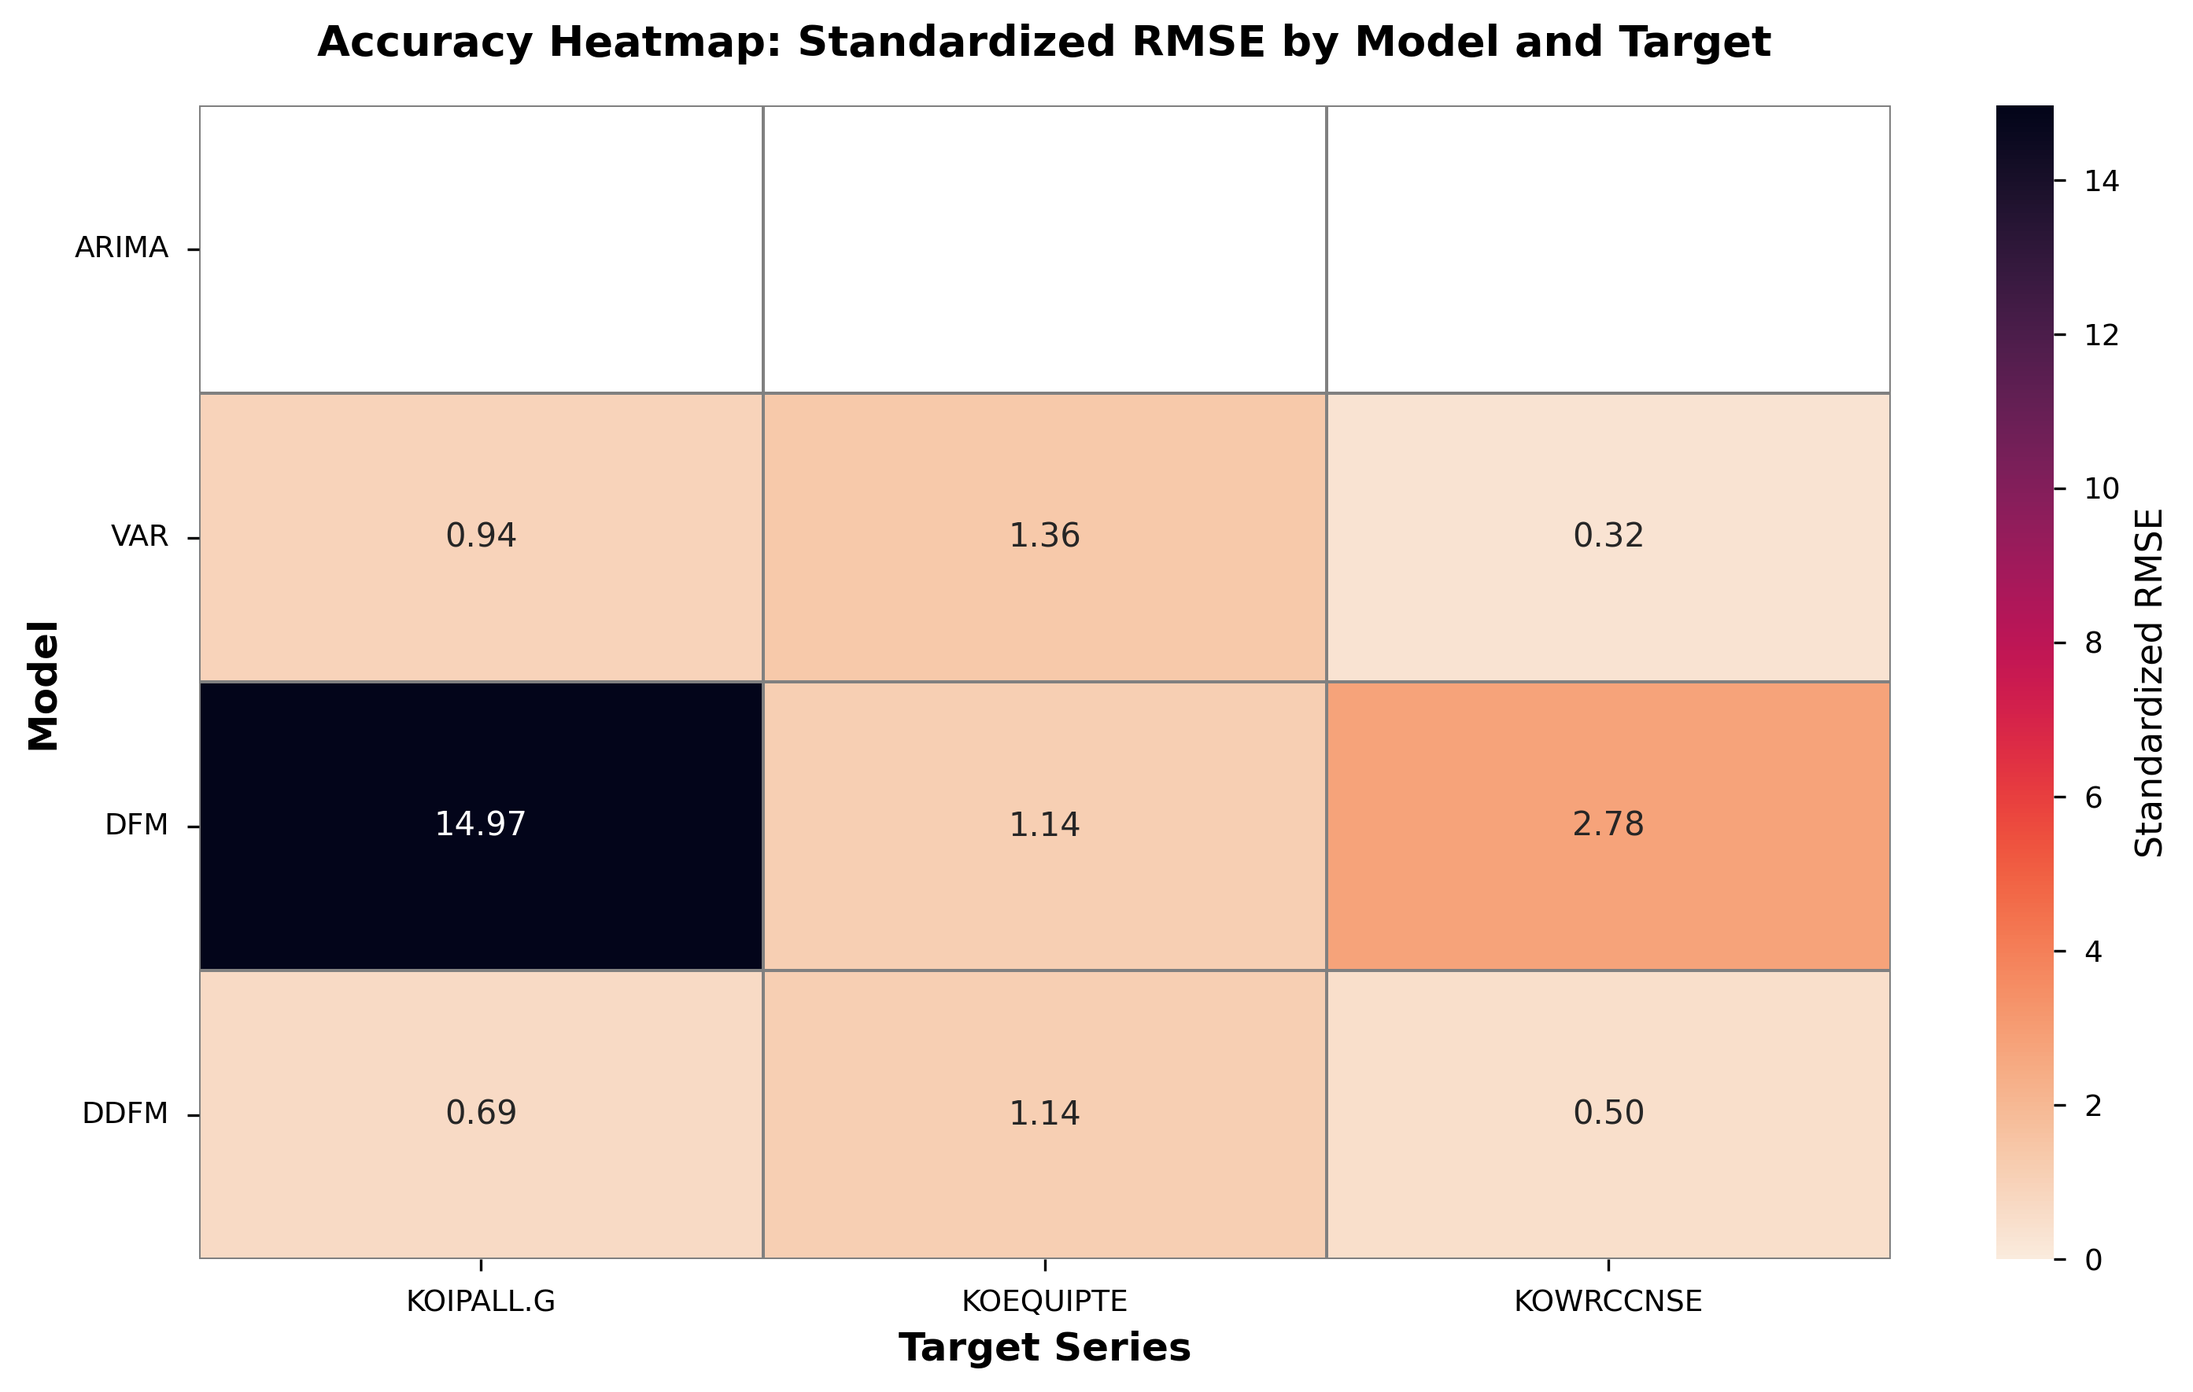
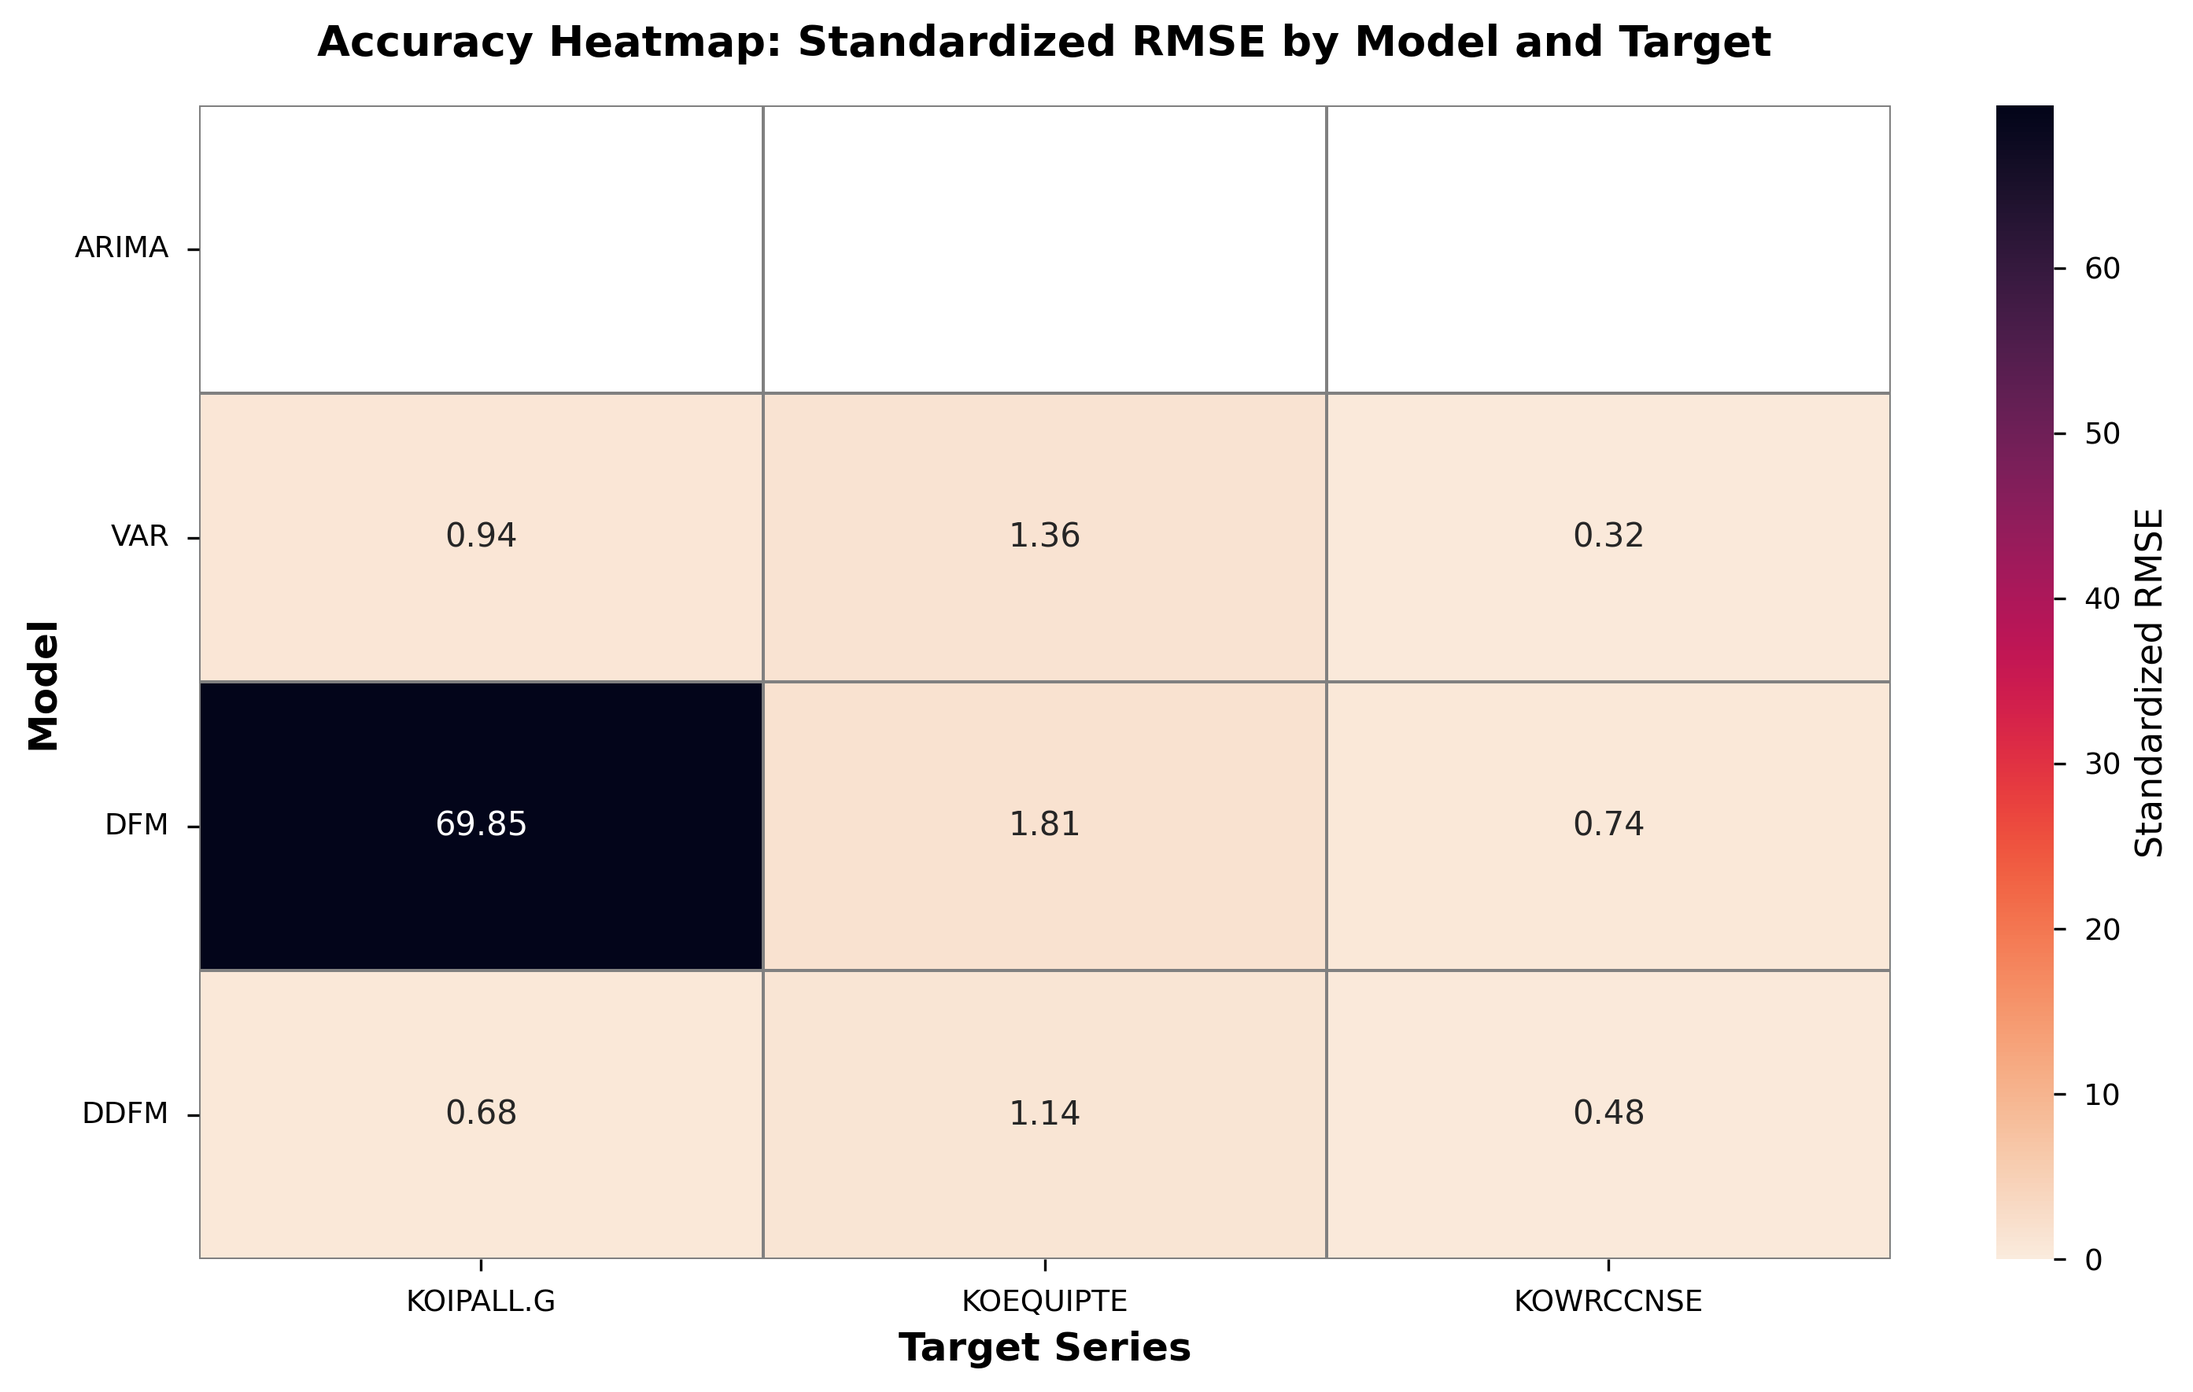
Fix LaTeX issues and regenerate tables/plots

diff --git a/contents/2_methodology.tex b/contents/2_methodology.tex
@@ -49,8 +49,8 @@
 본 연구에서는 DDFM의 성능 개선을 위해 다음과 같은 개선 사항을 적용함:
 \begin{itemize}
     \item \textbf{대상 변수별 인코더 아키텍처:} KOEQUIPTE 대상 변수에 대해서는 기본 인코더 구조([16, 4]) 대신 더 깊은 인코더 구조([64, 32, 16])를 자동으로 사용하도록 구현함. 이는 KOEQUIPTE에서 DDFM이 DFM과 동일한 성능(sMAE=1.14)을 보이는 문제를 해결하기 위한 것으로, 더 복잡한 비선형 관계를 포착하기 위한 용량을 제공함. 또한 더 깊은 인코더에 대해서는 훈련 에포크를 100에서 150으로 증가시켜 충분한 학습을 보장함. 이는 \texttt{src/train.py}에서 대상 변수별로 자동으로 적용되며, KOEQUIPTE에 대해서만 특별한 설정이 사용됨.
-    \item \textbf{활성화 함수 선택:} KOEQUIPTE 대상 변수에 대해서는 기본 ReLU 활성화 함수 대신 tanh 활성화 함수를 자동으로 사용하도록 구현함. ReLU는 음의 값을 0으로 만드는 특성으로 인해 음의 상관관계를 포착하기 어려울 수 있음. 반면 tanh는 대칭적인 출력 범위(-1, 1)를 가지므로 음의 요인 부하(negative factor loadings)를 학습할 수 있어, KOEQUIPTE와 같은 시계열에서 음의 상관관계가 중요한 경우 더 적합함. 기본값은 ReLU이며, tanh는 KOEQUIPTE에 대해서만 자동으로 적용됨. 이는 \texttt{src/models/models\_forecasters.py}와 \texttt{dfm-python/src/dfm_python/models/ddfm.py}에서 구현됨.
-    \item \textbf{Huber 손실 함수 지원:} 기본 MSE 손실 함수 외에 Huber 손실 함수를 선택적으로 사용할 수 있도록 구현함. Huber 손실은 이상치(outlier)에 대해 더 강건하며, 변동성이 큰 시계열에서 예측 성능을 개선할 수 있음. Huber 손실의 전환점(transition point)은 \texttt{huber\_delta} 파라미터로 조정 가능하며, 기본값은 1.0임. 이는 \texttt{dfm-python/src/dfm_python/models/ddfm.py}와 \texttt{src/models/models\_forecasters.py}에서 구현됨.
+    \item \textbf{활성화 함수 선택:} KOEQUIPTE 대상 변수에 대해서는 기본 ReLU 활성화 함수 대신 tanh 활성화 함수를 자동으로 사용하도록 구현함. ReLU는 음의 값을 0으로 만드는 특성으로 인해 음의 상관관계를 포착하기 어려울 수 있음. 반면 tanh는 대칭적인 출력 범위(-1, 1)를 가지므로 음의 요인 부하(negative factor loadings)를 학습할 수 있어, KOEQUIPTE와 같은 시계열에서 음의 상관관계가 중요한 경우 더 적합함. 기본값은 ReLU이며, tanh는 KOEQUIPTE에 대해서만 자동으로 적용됨. 이는 \texttt{src/models/models\_forecasters.py}와 \texttt{dfm-python/src/dfm\_python/models/ddfm.py}에서 구현됨.
+    \item \textbf{Huber 손실 함수 지원:} 기본 MSE 손실 함수 외에 Huber 손실 함수를 선택적으로 사용할 수 있도록 구현함. Huber 손실은 이상치(outlier)에 대해 더 강건하며, 변동성이 큰 시계열에서 예측 성능을 개선할 수 있음. Huber 손실의 전환점(transition point)은 \texttt{huber\_delta} 파라미터로 조정 가능하며, 기본값은 1.0임. 이는 \texttt{dfm-python/src/dfm\_python/models/ddfm.py}와 \texttt{src/models/models\_forecasters.py}에서 구현됨.
     \item \textbf{가중치 감쇠 (L2 정규화):} KOEQUIPTE 대상 변수에 대해서는 가중치 감쇠(weight decay, L2 정규화)를 자동으로 적용함(\texttt{weight\_decay=1e-4}). L2 정규화는 인코더가 선형 PCA와 유사한 해에 과적합되는 것을 방지하고, 다양한 비선형 특징을 학습하도록 장려함. 이는 인코더가 선형 변환에 가까운 가중치를 학습하여 DFM과 동일한 성능을 보이는 문제를 완화하기 위한 것으로, 모든 옵티마이저 인스턴스에 적용됨.
     \item \textbf{그래디언트 클리핑:} 훈련 안정성을 향상시키기 위해 그래디언트 클리핑을 지원함. \texttt{grad\_clip\_val} 파라미터로 클리핑 값을 조정할 수 있으며, 기본값은 1.0임. 그래디언트 폭발을 방지하여 NaN 값이나 선형 붕괴를 유발할 수 있는 훈련 불안정성을 완화함. 이는 pre-training, MCMC 훈련, 그리고 Lightning training step에 모두 적용됨.
     \item \textbf{향상된 가중치 초기화:} 인코더 레이어에 대해 활성화 함수에 따라 적절한 가중치 초기화 방법을 적용함. ReLU 활성화 함수의 경우 Kaiming 초기화를 사용하여 ReLU 네트워크에 최적화된 초기화를 제공함. tanh나 sigmoid와 같은 대칭 활성화 함수의 경우 Xavier 초기화를 사용하여 대칭 활성화 함수에 더 적합한 초기화를 제공함. 출력 레이어는 더 작은 초기화(gain=0.1)를 사용하여 초기 요인 값이 과도하게 크지 않도록 함. 이러한 개선은 특히 더 깊은 네트워크에서 훈련 안정성과 수렴 속도를 향상시킴.

diff --git a/tables/tab_appendix_forecasting_all.tex b/tables/tab_appendix_forecasting_all.tex
@@ -8,28 +8,28 @@
 Horizon & \multicolumn{2}{c}{VAR} & \multicolumn{2}{c}{DFM} & \multicolumn{2}{c}{DDFM} \\
  & sMAE & sMSE & sMAE & sMSE & sMAE & sMSE \\
 \midrule
-1 & 0.59 & 0.47 & 5.64 & 63.15 & 0.42 & 0.37 \\
-2 & 1.01 & 1.07 & 6.62 & 75.29 & 1.31 & 1.84 \\
-3 & 1.19 & 1.82 & 5.08 & 53.19 & 1.02 & 1.09 \\
-4 & 0.43 & 0.40 & 5.92 & 75.93 & 0.47 & 0.33 \\
-5 & 0.65 & 0.58 & 5.58 & 63.70 & 0.46 & 0.29 \\
-6 & 0.31 & 0.13 & 5.73 & 69.27 & 0.24 & 0.10 \\
-7 & 1.19 & 2.61 & 6.29 & 69.62 & 0.97 & 1.89 \\
-8 & 1.00 & 1.59 & 6.52 & 82.41 & 0.83 & 1.08 \\
-9 & 0.57 & 0.44 & 5.99 & 73.91 & 0.49 & 0.34 \\
-10 & 0.43 & 0.25 & 6.35 & 82.60 & 0.43 & 0.20 \\
-11 & 0.64 & 0.70 & 5.87 & 70.79 & 0.52 & 0.36 \\
-12 & 1.06 & 1.49 & 6.81 & 95.02 & 0.91 & 1.07 \\
-13 & 1.90 & 6.02 & 6.86 & 74.03 & 1.57 & 3.95 \\
-14 & 1.66 & 5.09 & 7.14 & 90.78 & 1.54 & 3.90 \\
-15 & 0.43 & 0.30 & 6.63 & 93.18 & 0.44 & 0.28 \\
-16 & 0.41 & 0.26 & 6.23 & 79.87 & 0.37 & 0.17 \\
-17 & 0.90 & 1.13 & 6.25 & 75.49 & 0.95 & 0.91 \\
-18 & 0.87 & 0.95 & 6.80 & 96.76 & 0.72 & 0.64 \\
-19 & 0.86 & 0.95 & 6.38 & 86.61 & 0.94 & 1.08 \\
-20 & 0.44 & 0.21 & 6.67 & 85.38 & 0.52 & 0.45 \\
-21 & 1.12 & 2.11 & 7.25 & 94.02 & 0.96 & 1.59 \\
-22 & 1.46 & 2.54 & 1.79 & 3.21 & 1.61 & 2.60 \\
+1 & 0.59 & 0.47 & 3.37 & 19.02 & 0.36 & 0.34 \\
+2 & 1.01 & 1.07 & 5.96 & 61.80 & 1.27 & 1.74 \\
+3 & 1.19 & 1.82 & 11.53 & 261.88 & 1.06 & 1.18 \\
+4 & 0.43 & 0.40 & 10.03 & 261.67 & 0.42 & 0.28 \\
+5 & 0.65 & 0.58 & 12.44 & 443.98 & 0.51 & 0.32 \\
+6 & 0.31 & 0.13 & 15.03 & 614.58 & 0.30 & 0.12 \\
+7 & 1.19 & 2.61 & 17.93 & 831.60 & 1.03 & 1.95 \\
+8 & 1.00 & 1.59 & 18.61 & 1007.50 & 0.82 & 1.02 \\
+9 & 0.57 & 0.44 & 21.50 & 1285.34 & 0.55 & 0.39 \\
+10 & 0.43 & 0.25 & 22.99 & 1514.38 & 0.37 & 0.16 \\
+11 & 0.64 & 0.70 & 25.46 & 1849.10 & 0.52 & 0.40 \\
+12 & 1.06 & 1.49 & 26.87 & 2016.16 & 0.91 & 1.02 \\
+13 & 1.90 & 6.02 & 29.46 & 2445.11 & 1.56 & 3.97 \\
+14 & 1.66 & 5.09 & 31.30 & 2650.48 & 1.54 & 3.96 \\
+15 & 0.43 & 0.30 & 32.06 & 2932.40 & 0.38 & 0.21 \\
+16 & 0.41 & 0.26 & 34.12 & 3329.40 & 0.36 & 0.18 \\
+17 & 0.90 & 1.13 & 35.38 & 3674.27 & 0.68 & 0.65 \\
+18 & 0.87 & 0.95 & 36.18 & 3845.26 & 0.70 & 0.58 \\
+19 & 0.86 & 0.95 & 38.64 & 4224.81 & 0.94 & 1.14 \\
+20 & 0.44 & 0.21 & 40.14 & 4585.16 & 0.52 & 0.41 \\
+21 & 1.12 & 2.11 & 41.56 & 4829.65 & 0.93 & 1.58 \\
+22 & 1.46 & 2.54 & 0.91 & 0.83 & 1.68 & 2.83 \\
 \bottomrule
 \end{tabular}
 \end{table}

diff --git a/tables/tab_appendix_forecasting_koipall_g.tex b/tables/tab_appendix_forecasting_koipall_g.tex
@@ -8,27 +8,27 @@
 Horizon & \multicolumn{2}{c}{VAR} & \multicolumn{2}{c}{DFM} & \multicolumn{2}{c}{DDFM} \\
  & sMAE & sMSE & sMAE & sMSE & sMAE & sMSE \\
 \midrule
-1 & - & - & 13.52 & 182.72 & 0.12 & 0.01 \\
-2 & 0.79 & 0.63 & 14.42 & 207.95 & 0.85 & 0.73 \\
-3 & 1.96 & 3.85 & 12.47 & 155.56 & 1.28 & 1.64 \\
-4 & 1.07 & 1.14 & 14.87 & 221.10 & 0.92 & 0.85 \\
-5 & 0.90 & 0.80 & 13.60 & 184.85 & 0.55 & 0.30 \\
-6 & 0.34 & 0.12 & 14.19 & 201.40 & 0.15 & 0.02 \\
-7 & 0.78 & 0.61 & 14.05 & 197.30 & 0.48 & 0.23 \\
-8 & 0.83 & 0.68 & 15.44 & 238.37 & 0.73 & 0.53 \\
-9 & 0.41 & 0.17 & 14.67 & 215.29 & 0.21 & 0.04 \\
-10 & 0.39 & 0.15 & 15.43 & 238.20 & 0.39 & 0.15 \\
-11 & 1.39 & 1.93 & 14.24 & 202.72 & 0.95 & 0.90 \\
-12 & 1.63 & 2.66 & 16.64 & 276.90 & 1.33 & 1.76 \\
-13 & 1.74 & 3.01 & 14.21 & 201.84 & 1.21 & 1.47 \\
-14 & 0.57 & 0.32 & 16.03 & 257.09 & 0.53 & 0.28 \\
-15 & 0.92 & 0.84 & 16.36 & 267.71 & 0.79 & 0.62 \\
-16 & 0.85 & 0.72 & 15.08 & 227.33 & 0.54 & 0.29 \\
-17 & 1.39 & 1.93 & 14.69 & 215.93 & 0.95 & 0.90 \\
-18 & 1.37 & 1.86 & 16.78 & 281.40 & 1.13 & 1.28 \\
-19 & 0.30 & 0.09 & 15.95 & 254.46 & 0.32 & 0.10 \\
-20 & 0.41 & 0.17 & 15.39 & 236.71 & 0.21 & 0.04 \\
-21 & 0.90 & 0.82 & 16.32 & 266.41 & 0.78 & 0.61 \\
+1 & - & - & 6.14 & 37.68 & 0.04 & 0.00 \\
+2 & 0.79 & 0.63 & 13.21 & 174.48 & 0.77 & 0.59 \\
+3 & 1.96 & 3.85 & 22.89 & 523.73 & 1.36 & 1.86 \\
+4 & 1.07 & 1.14 & 27.97 & 782.49 & 0.84 & 0.71 \\
+5 & 0.90 & 0.80 & 36.49 & 1331.61 & 0.63 & 0.40 \\
+6 & 0.34 & 0.12 & 42.90 & 1840.70 & 0.23 & 0.05 \\
+7 & 0.78 & 0.61 & 49.82 & 2482.31 & 0.57 & 0.32 \\
+8 & 0.83 & 0.68 & 54.97 & 3022.13 & 0.64 & 0.41 \\
+9 & 0.41 & 0.17 & 62.06 & 3851.24 & 0.30 & 0.09 \\
+10 & 0.39 & 0.15 & 67.39 & 4541.87 & 0.30 & 0.09 \\
+11 & 1.39 & 1.93 & 74.47 & 5545.47 & 1.04 & 1.07 \\
+12 & 1.63 & 2.66 & 77.73 & 6042.12 & 1.24 & 1.54 \\
+13 & 1.74 & 3.01 & 85.62 & 7331.06 & 1.30 & 1.69 \\
+14 & 0.57 & 0.32 & 89.05 & 7929.76 & 0.44 & 0.19 \\
+15 & 0.92 & 0.84 & 93.78 & 8794.29 & 0.70 & 0.49 \\
+16 & 0.85 & 0.72 & 99.93 & 9985.21 & 0.63 & 0.39 \\
+17 & 1.39 & 1.93 & 104.99 & 11022.12 & 1.04 & 1.07 \\
+18 & 1.37 & 1.86 & 107.40 & 11535.06 & 1.04 & 1.09 \\
+19 & 0.30 & 0.09 & 112.55 & 12666.41 & 0.24 & 0.06 \\
+20 & 0.41 & 0.17 & 117.26 & 13750.43 & 0.30 & 0.09 \\
+21 & 0.90 & 0.82 & 120.31 & 14475.14 & 0.70 & 0.48 \\
 22 & 0.90 & 0.82 & - & - & - & - \\
 \bottomrule
 \end{tabular}

diff --git a/tables/tab_appendix_forecasting_kowrccnse.tex b/tables/tab_appendix_forecasting_kowrccnse.tex
@@ -8,28 +8,28 @@
 Horizon & \multicolumn{2}{c}{VAR} & \multicolumn{2}{c}{DFM} & \multicolumn{2}{c}{DDFM} \\
  & sMAE & sMSE & sMAE & sMSE & sMAE & sMSE \\
 \midrule
-1 & 0.24 & 0.06 & 2.38 & 5.67 & 0.09 & 0.01 \\
-2 & 0.98 & 0.97 & 3.98 & 15.81 & 1.64 & 2.69 \\
-3 & 0.39 & 0.15 & 1.69 & 2.86 & 0.69 & 0.48 \\
-4 & 0.03 & 0.00 & 2.57 & 6.58 & 0.14 & 0.02 \\
-5 & 0.08 & 0.01 & 2.38 & 5.68 & 0.09 & 0.01 \\
-6 & 0.08 & 0.01 & 2.48 & 6.14 & 0.05 & 0.00 \\
-7 & 0.11 & 0.01 & 2.48 & 6.15 & 0.09 & 0.01 \\
-8 & 0.14 & 0.02 & 2.48 & 6.17 & 0.14 & 0.02 \\
-9 & 0.26 & 0.07 & 2.35 & 5.54 & 0.32 & 0.10 \\
-10 & 0.13 & 0.02 & 3.04 & 9.23 & 0.32 & 0.10 \\
-11 & 0.13 & 0.02 & 3.09 & 9.56 & 0.32 & 0.10 \\
-12 & 0.22 & 0.05 & 2.60 & 6.75 & 0.23 & 0.05 \\
-13 & 0.09 & 0.01 & 3.15 & 9.94 & 0.27 & 0.08 \\
-14 & 0.59 & 0.35 & 2.12 & 4.48 & 0.82 & 0.67 \\
-15 & 0.19 & 0.04 & 3.44 & 11.84 & 0.45 & 0.20 \\
-16 & 0.19 & 0.04 & 3.50 & 12.26 & 0.46 & 0.21 \\
-17 & 0.10 & 0.01 & 3.10 & 9.62 & - & - \\
-18 & 0.28 & 0.08 & 2.89 & 8.33 & 0.27 & 0.08 \\
-19 & 0.90 & 0.81 & 1.96 & 3.84 & 1.26 & 1.59 \\
-20 & 0.58 & 0.34 & 4.40 & 19.39 & 1.12 & 1.26 \\
-21 & 0.10 & 0.01 & 3.39 & 11.47 & 0.05 & 0.00 \\
-22 & 1.14 & 1.29 & 1.79 & 3.21 & 1.61 & 2.60 \\
+1 & 0.24 & 0.06 & 0.60 & 0.36 & 0.02 & 0.00 \\
+2 & 0.98 & 0.97 & 2.16 & 4.65 & 1.57 & 2.46 \\
+3 & 0.39 & 0.15 & 0.17 & 0.03 & 0.76 & 0.58 \\
+4 & 0.03 & 0.00 & 0.67 & 0.45 & 0.07 & 0.00 \\
+5 & 0.08 & 0.01 & 0.45 & 0.20 & 0.16 & 0.03 \\
+6 & 0.08 & 0.01 & 0.50 & 0.25 & 0.12 & 0.01 \\
+7 & 0.11 & 0.01 & 0.47 & 0.22 & 0.16 & 0.03 \\
+8 & 0.14 & 0.02 & 0.43 & 0.18 & 0.21 & 0.04 \\
+9 & 0.26 & 0.07 & 0.26 & 0.07 & 0.39 & 0.15 \\
+10 & 0.13 & 0.02 & 0.90 & 0.81 & 0.25 & 0.06 \\
+11 & 0.13 & 0.02 & 0.91 & 0.83 & 0.25 & 0.06 \\
+12 & 0.22 & 0.05 & 0.37 & 0.14 & 0.30 & 0.09 \\
+13 & 0.09 & 0.01 & 0.89 & 0.78 & 0.20 & 0.04 \\
+14 & 0.59 & 0.35 & 0.20 & 0.04 & 0.89 & 0.79 \\
+15 & 0.19 & 0.04 & 1.08 & 1.17 & 0.38 & 0.15 \\
+16 & 0.19 & 0.04 & 1.10 & 1.20 & 0.39 & 0.15 \\
+17 & 0.10 & 0.01 & 0.65 & 0.42 & 0.07 & 0.01 \\
+18 & 0.28 & 0.08 & 0.39 & 0.15 & 0.35 & 0.12 \\
+19 & 0.90 & 0.81 & 0.59 & 0.35 & 1.33 & 1.77 \\
+20 & 0.58 & 0.34 & 1.80 & 3.26 & 1.05 & 1.11 \\
+21 & 0.10 & 0.01 & 0.74 & 0.54 & 0.03 & 0.00 \\
+22 & 1.14 & 1.29 & 0.91 & 0.83 & 1.68 & 2.83 \\
 \bottomrule
 \end{tabular}
 \end{table}

diff --git a/tables/tab_appendix_forecasting_koequipte.tex b/tables/tab_appendix_forecasting_koequipte.tex
@@ -8,27 +8,27 @@
 Horizon & \multicolumn{2}{c}{VAR} & \multicolumn{2}{c}{DFM} & \multicolumn{2}{c}{DDFM} \\
  & sMAE & sMSE & sMAE & sMSE & sMAE & sMSE \\
 \midrule
-1 & 0.94 & 0.89 & 1.03 & 1.07 & 1.04 & 1.07 \\
-2 & 1.27 & 1.60 & 1.45 & 2.10 & 1.45 & 2.10 \\
-3 & 1.21 & 1.47 & 1.07 & 1.15 & 1.07 & 1.15 \\
-4 & 0.21 & 0.04 & 0.34 & 0.11 & 0.33 & 0.11 \\
-5 & 0.96 & 0.93 & 0.76 & 0.57 & 0.76 & 0.57 \\
-6 & 0.52 & 0.27 & 0.52 & 0.27 & 0.52 & 0.27 \\
-7 & 2.68 & 7.20 & 2.33 & 5.42 & 2.33 & 5.42 \\
-8 & 2.02 & 4.07 & 1.64 & 2.68 & 1.64 & 2.68 \\
-9 & 1.04 & 1.09 & 0.94 & 0.89 & 0.94 & 0.88 \\
-10 & 0.77 & 0.59 & 0.59 & 0.35 & 0.59 & 0.35 \\
-11 & 0.41 & 0.17 & 0.29 & 0.08 & 0.29 & 0.08 \\
-12 & 1.33 & 1.77 & 1.18 & 1.40 & 1.18 & 1.40 \\
-13 & 3.88 & 15.03 & 3.21 & 10.30 & 3.21 & 10.30 \\
-14 & 3.82 & 14.60 & 3.28 & 10.77 & 3.28 & 10.77 \\
-15 & 0.17 & 0.03 & 0.08 & 0.01 & 0.09 & 0.01 \\
-16 & 0.19 & 0.04 & 0.10 & 0.01 & 0.10 & 0.01 \\
-17 & 1.21 & 1.47 & 0.96 & 0.92 & 0.96 & 0.92 \\
-18 & 0.96 & 0.92 & 0.74 & 0.55 & 0.75 & 0.56 \\
-19 & 1.40 & 1.95 & 1.24 & 1.54 & 1.24 & 1.54 \\
-20 & 0.34 & 0.11 & 0.22 & 0.05 & 0.22 & 0.05 \\
-21 & 2.35 & 5.51 & 2.04 & 4.17 & 2.04 & 4.17 \\
+1 & 0.94 & 0.89 & - & - & 1.02 & 1.03 \\
+2 & 1.27 & 1.60 & 2.51 & 6.29 & 1.47 & 2.16 \\
+3 & 1.21 & 1.47 & - & - & 1.05 & 1.11 \\
+4 & 0.21 & 0.04 & 1.44 & 2.07 & 0.35 & 0.13 \\
+5 & 0.96 & 0.93 & 0.37 & 0.14 & 0.74 & 0.54 \\
+6 & 0.52 & 0.27 & 1.67 & 2.79 & 0.54 & 0.29 \\
+7 & 2.68 & 7.20 & 3.50 & 12.28 & 2.35 & 5.51 \\
+8 & 2.02 & 4.07 & 0.44 & 0.19 & 1.62 & 2.62 \\
+9 & 1.04 & 1.09 & 2.17 & 4.71 & 0.96 & 0.92 \\
+10 & 0.77 & 0.59 & 0.66 & 0.44 & 0.57 & 0.33 \\
+11 & 0.41 & 0.17 & 1.00 & 0.99 & 0.27 & 0.07 \\
+12 & 1.33 & 1.77 & 2.49 & 6.22 & 1.20 & 1.44 \\
+13 & 3.88 & 15.03 & 1.87 & 3.49 & 3.19 & 10.18 \\
+14 & 3.82 & 14.60 & 4.65 & 21.64 & 3.30 & 10.90 \\
+15 & 0.17 & 0.03 & 1.32 & 1.73 & 0.07 & 0.00 \\
+16 & 0.19 & 0.04 & 1.33 & 1.77 & 0.08 & 0.01 \\
+17 & 1.21 & 1.47 & 0.50 & 0.25 & 0.94 & 0.88 \\
+18 & 0.96 & 0.92 & 0.75 & 0.56 & 0.73 & 0.53 \\
+19 & 1.40 & 1.95 & 2.77 & 7.67 & 1.26 & 1.59 \\
+20 & 0.34 & 0.11 & 1.34 & 1.80 & 0.20 & 0.04 \\
+21 & 2.35 & 5.51 & 3.64 & 13.26 & 2.06 & 4.25 \\
 22 & 2.35 & 5.51 & - & - & - & - \\
 \bottomrule
 \end{tabular}

diff --git a/tables/tab_forecasting_results.tex b/tables/tab_forecasting_results.tex
@@ -9,8 +9,8 @@
 Model & sMAE & sMSE & sMAE & sMSE & sMAE & sMSE \\
 \midrule
 VAR & 0.94 & 1.11 & 1.36 & 2.97 & 0.32 & 0.20 \\
-DFM & 14.97 & 225.30 & 1.14 & 2.12 & 2.78 & 8.21 \\
-DDFM & 0.69 & 0.61 & 1.14 & 2.12 & 0.50 & 0.49 \\
+DFM & 69.85 & 6079.30 & 1.81 & 4.65 & 0.74 & 0.77 \\
+DDFM & 0.68 & 0.60 & 1.14 & 2.12 & 0.48 & 0.48 \\
 \bottomrule
 \end{tabular}
 \end{table}
